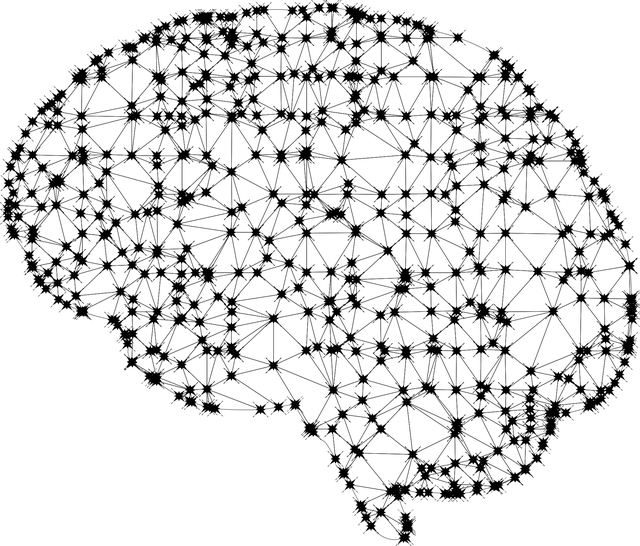
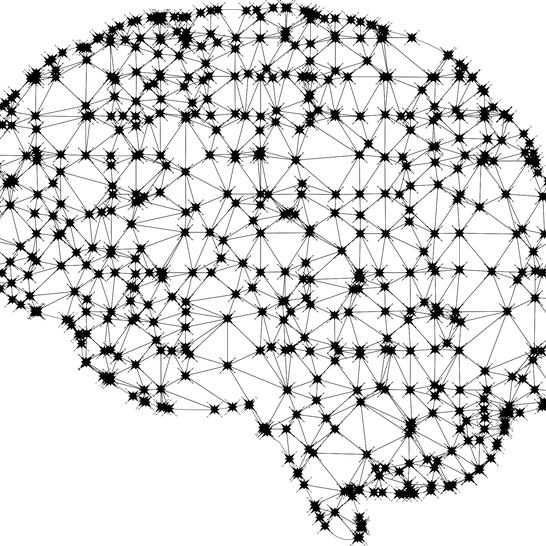
fix sfr two images
aaaa

diff --git a/index.html b/index.html
@@ -322,7 +322,7 @@
                                                     <div class="subject">Strategic Research Fund Award</div>
                                                     <div class="text row">
                                                         <div class="col-md-2">
-                                                            <img alt="image" class="thumbnail img-responsive" src="img/SFR.png" >
+                                                            <img alt="image" class="thumbnail img-responsive" src="img/SFR2.png" >
                                                         </div>
                                                         <div class="col-md-10"> Grant awarded for undertaking a research project; Title: How Cultural Differences Shape the Sharing Economy. 
                                                         </div>
